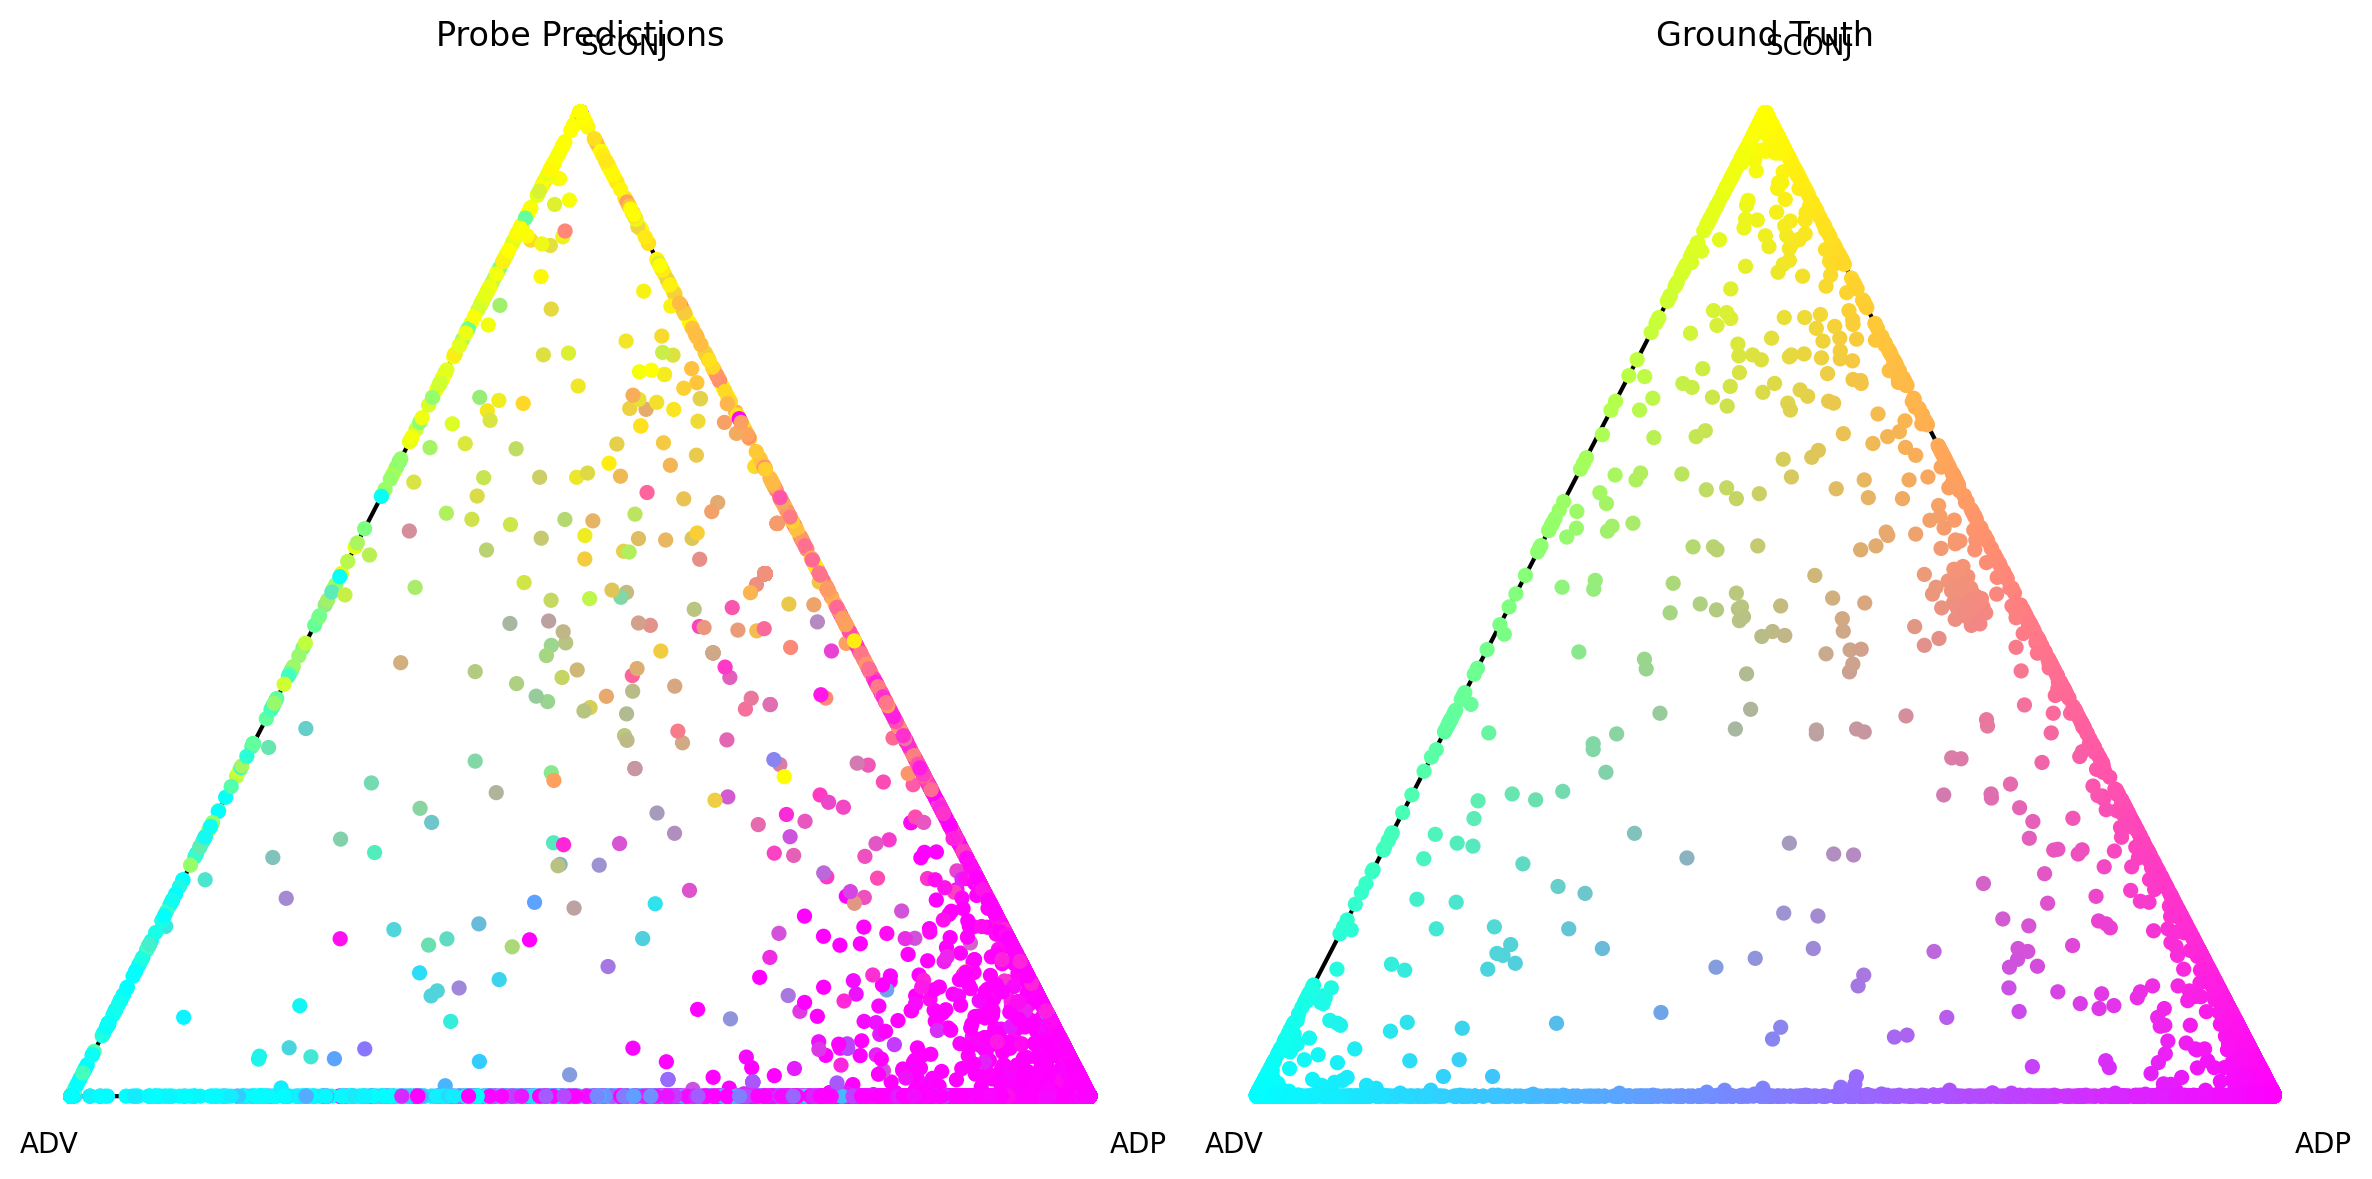
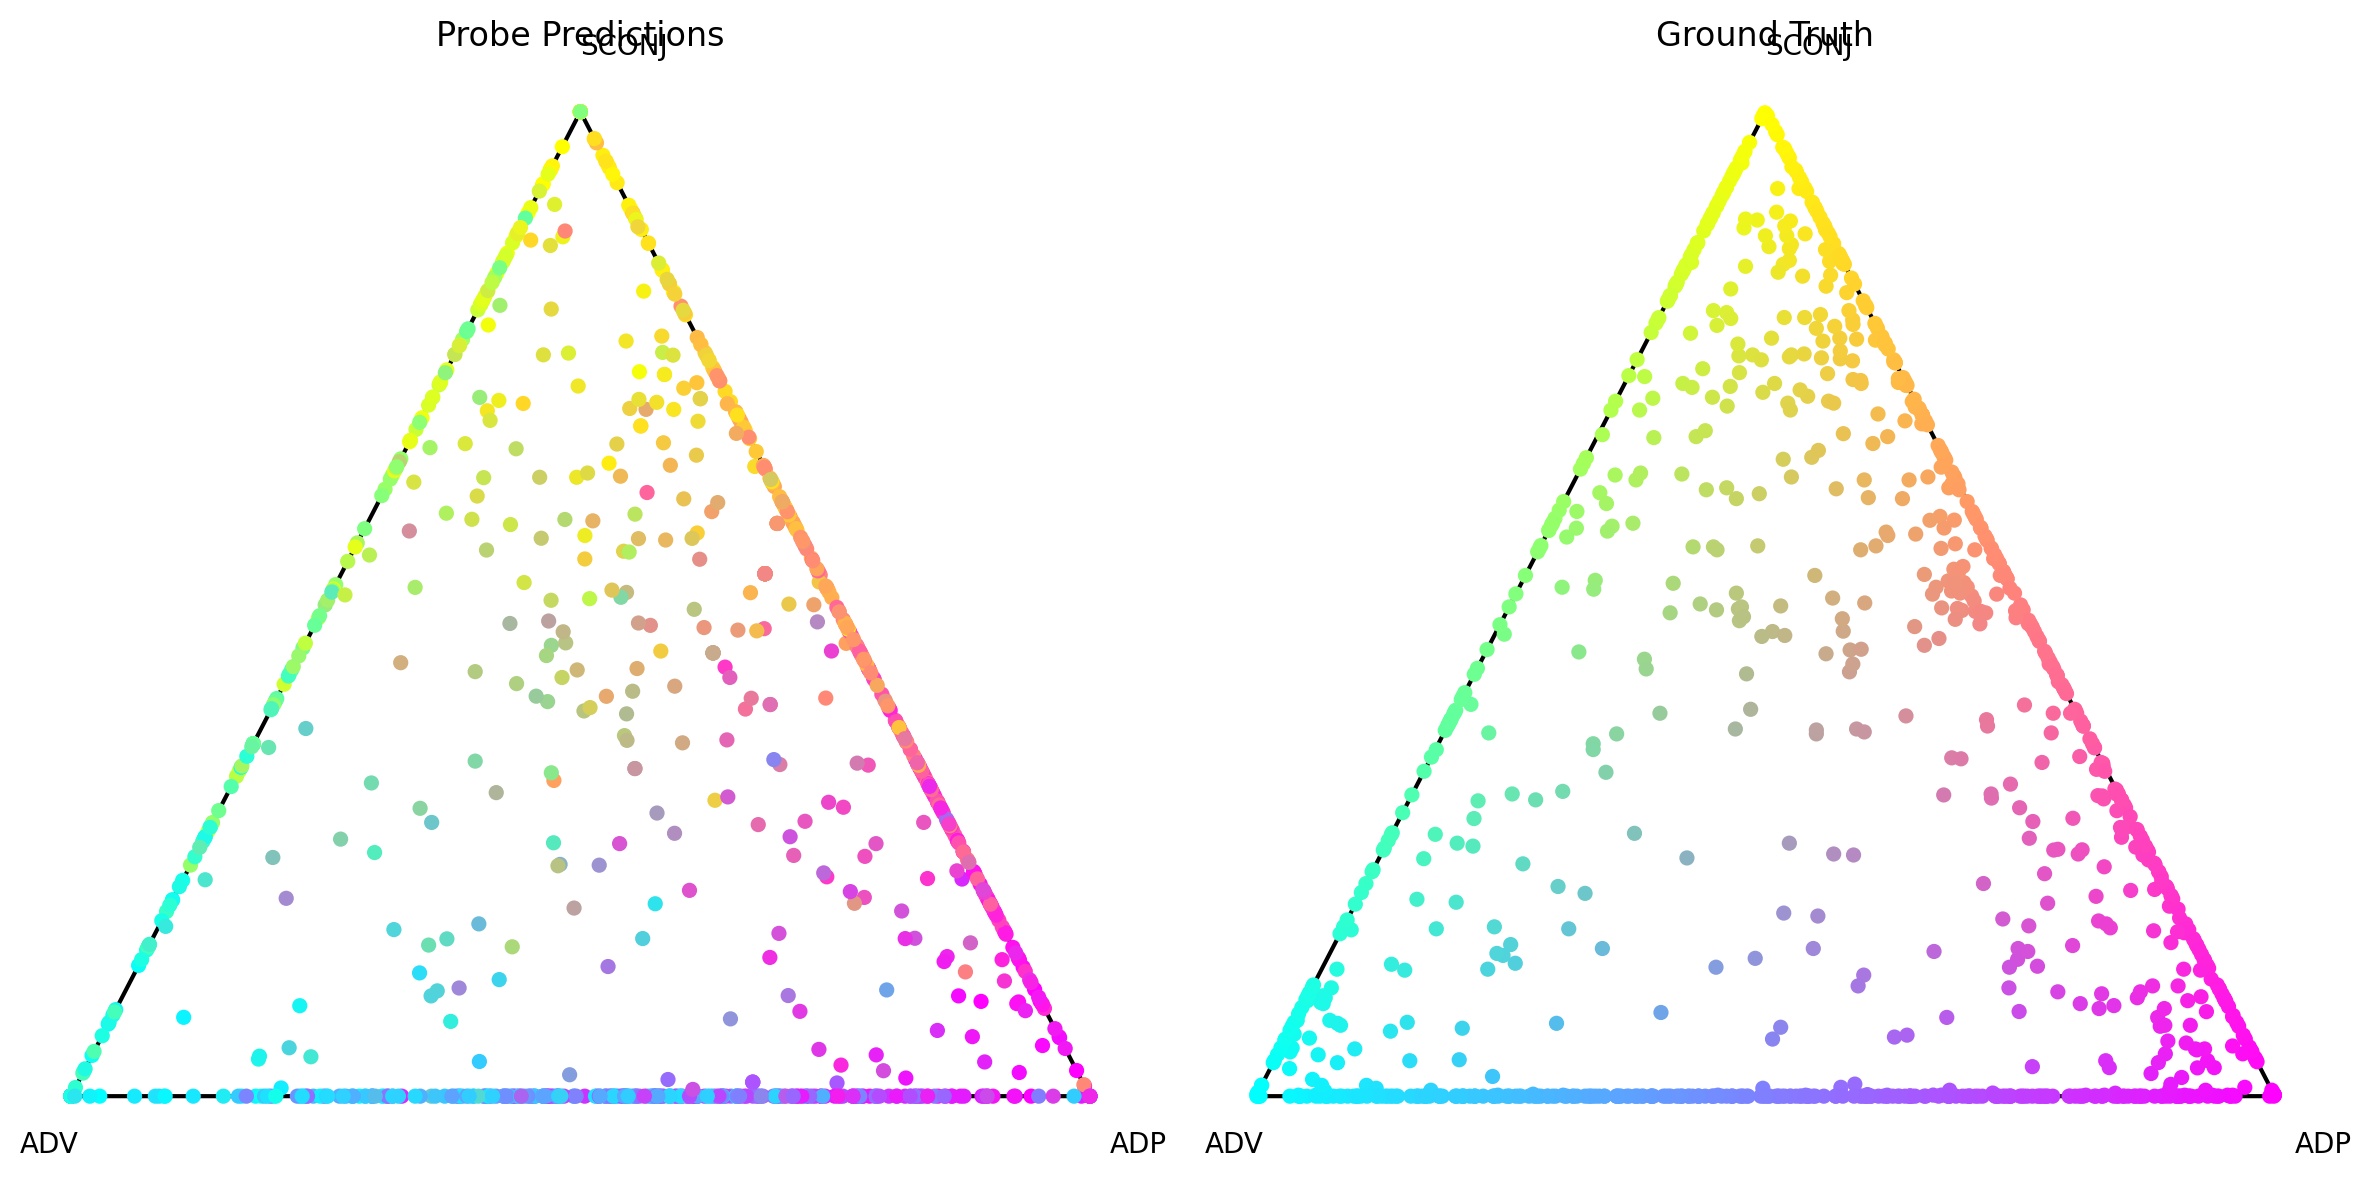
downsampling extreme points when making visualizations

diff --git a/parts-of-speech-2/data_pipeline/visualize_probe_simplex.py b/parts-of-speech-2/data_pipeline/visualize_probe_simplex.py
@@ -1,6 +1,7 @@
 from __future__ import annotations
 
 import math
+from collections import defaultdict
 from pathlib import Path
 from typing import List, Tuple
 
@@ -214,6 +215,46 @@ def main():
     # POS1->C (0,1,1), POS2->M (1,0,1), POS3->Y (1,1,0)
     cmy_map = np.array([[0, 1, 1], [1, 0, 1], [1, 1, 0]])
     cmy_colors = np.clip(colors_arr @ cmy_map, 0.0, 1.0)  # shape (n,3)
+
+    # Downsample for uniform density using triangular grid
+    N_DIVISIONS = 30  # 30² = 900 equal triangular cells
+    MAX_PER_CELL = 10  # Points to keep per cell
+
+    # Convert to arrays for indexing
+    xs = np.array(xs)
+    ys = np.array(ys)
+    activations_arr = np.array(activations)
+    raw_vectors_arr = np.array(raw_vectors)
+
+    # Compute triangular grid cell for each point
+    scaled = colors_arr * N_DIVISIONS
+    cell_keys = [(int(s[0]), int(s[1])) for s in scaled.clip(0, N_DIVISIONS - 1e-6)]
+
+    # Group indices by cell
+    cells = defaultdict(list)
+    for i, key in enumerate(cell_keys):
+        cells[key].append(i)
+
+    # Sample up to MAX_PER_CELL from each cell
+    np.random.seed(42)
+    sampled_indices = []
+    for indices in cells.values():
+        if len(indices) <= MAX_PER_CELL:
+            sampled_indices.extend(indices)
+        else:
+            sampled_indices.extend(np.random.choice(indices, MAX_PER_CELL, replace=False))
+
+    sampled_indices = np.array(sampled_indices)
+    print(f"Downsampled from {len(xs)} to {len(sampled_indices)} points ({len(cells)} cells)")
+
+    # Apply downsampling
+    xs = xs[sampled_indices]
+    ys = ys[sampled_indices]
+    colors_arr = colors_arr[sampled_indices]
+    cmy_colors = cmy_colors[sampled_indices]
+    activations_arr = activations_arr[sampled_indices]
+    raw_vectors_arr = raw_vectors_arr[sampled_indices]
+
     simplex_x = [0, 1, 0.5]
     simplex_y = [0, 0, math.sqrt(3) / 2]
 
@@ -228,7 +269,7 @@ def main():
     axes[0].set_title("Probe Predictions")
     axes[0].axis("off")
 
-    # Ground-truth simplex
+    # Ground-truth simplex (use downsampled colors_arr)
     gt_points = [barycentric_to_xy(*color) for color in colors_arr]
     gt_xs, gt_ys = zip(*gt_points)
     axes[1].triplot(simplex_x, simplex_y, "k-")
@@ -266,10 +307,8 @@ def main():
     print(f"Saved scatter plots to {SCATTER_FIG}")
 
     # Plotly 3D scatter projected onto orthonormal basis of probe directions
-    raw_arr = np.array(raw_vectors)
-    activations_arr = np.array(activations)
-    colors_rgb = np.clip(cmy_colors, 0.0, 1.0)
-    colors_hex = [f"rgb({int(r*255)},{int(g*255)},{int(b*255)})" for r, g, b in colors_rgb]
+    # (activations_arr and raw_vectors_arr already downsampled above)
+    colors_hex = [f"rgb({int(r*255)},{int(g*255)},{int(b*255)})" for r, g, b in cmy_colors]
 
     weight_matrix = probe.linear.weight.detach().cpu().numpy()[pos_indices]  # (3, hidden_dim)
     U, S, Vh = np.linalg.svd(weight_matrix, full_matrices=False)
@@ -299,20 +338,20 @@ def main():
                 y=[origin[1], end[1]],
                 z=[origin[2], end[2]],
                 mode="lines",
-                line=dict(color="white", width=4),
+                line=dict(color="black", width=4),
                 name=tag,
             )
         )
     fig3d.update_layout(
         title="Raw Probe Outputs (orthonormal projection)",
         scene=dict(
-            xaxis=dict(showgrid=False, showticklabels=False, title=None, zeroline=False, backgroundcolor="black"),
-            yaxis=dict(showgrid=False, showticklabels=False, title=None, zeroline=False, backgroundcolor="black"),
-            zaxis=dict(showgrid=False, showticklabels=False, title=None, zeroline=False, backgroundcolor="black"),
-            bgcolor="black",
+            xaxis=dict(showgrid=False, showticklabels=False, title=None, zeroline=False, backgroundcolor="white"),
+            yaxis=dict(showgrid=False, showticklabels=False, title=None, zeroline=False, backgroundcolor="white"),
+            zaxis=dict(showgrid=False, showticklabels=False, title=None, zeroline=False, backgroundcolor="white"),
+            bgcolor="white",
         ),
-        paper_bgcolor="black",
-        plot_bgcolor="black",
+        paper_bgcolor="white",
+        plot_bgcolor="white",
     )
     fig3d.write_html(PRED_3D_HTML)
     print(f"Saved 3D plot to {PRED_3D_HTML}")
